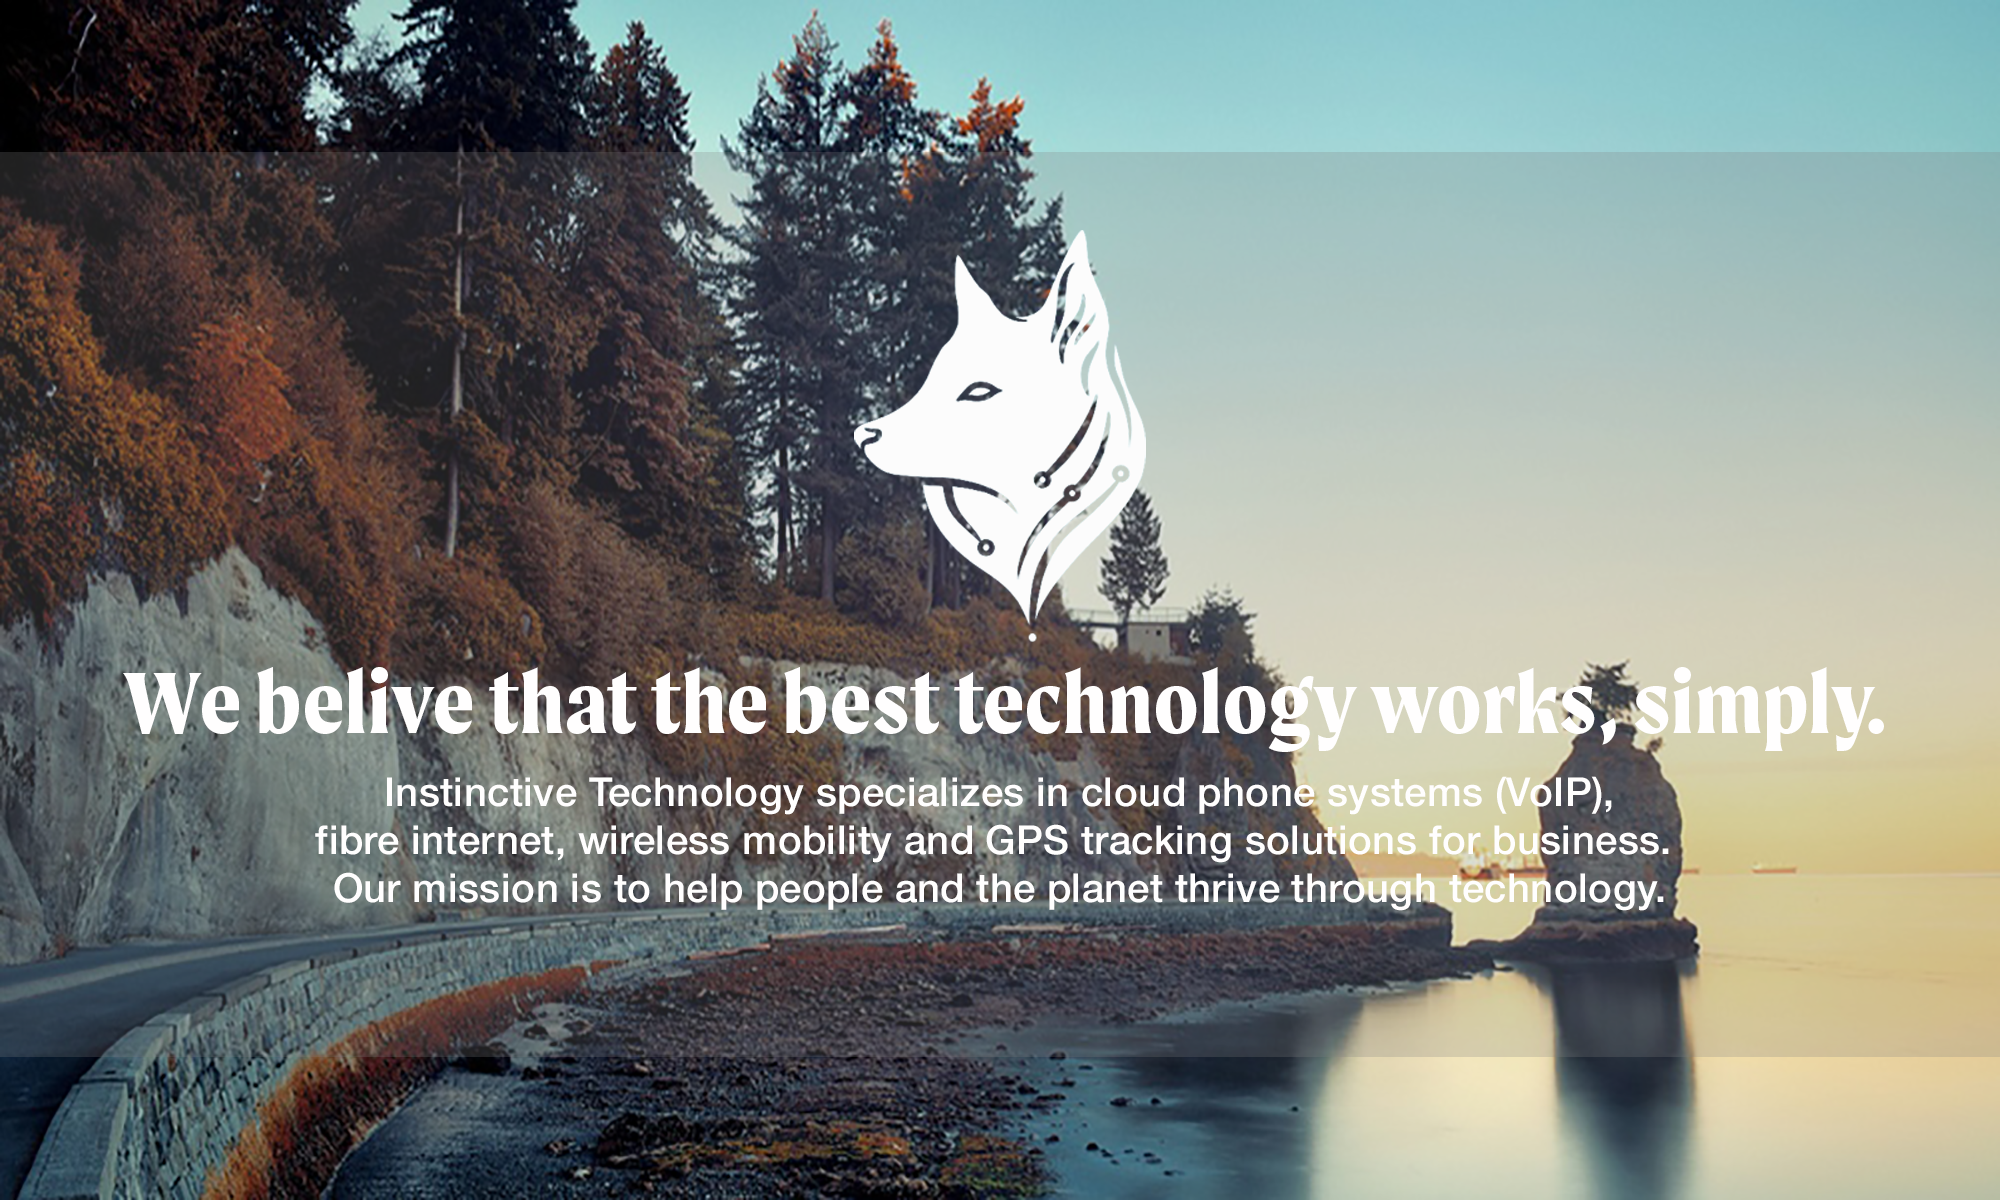
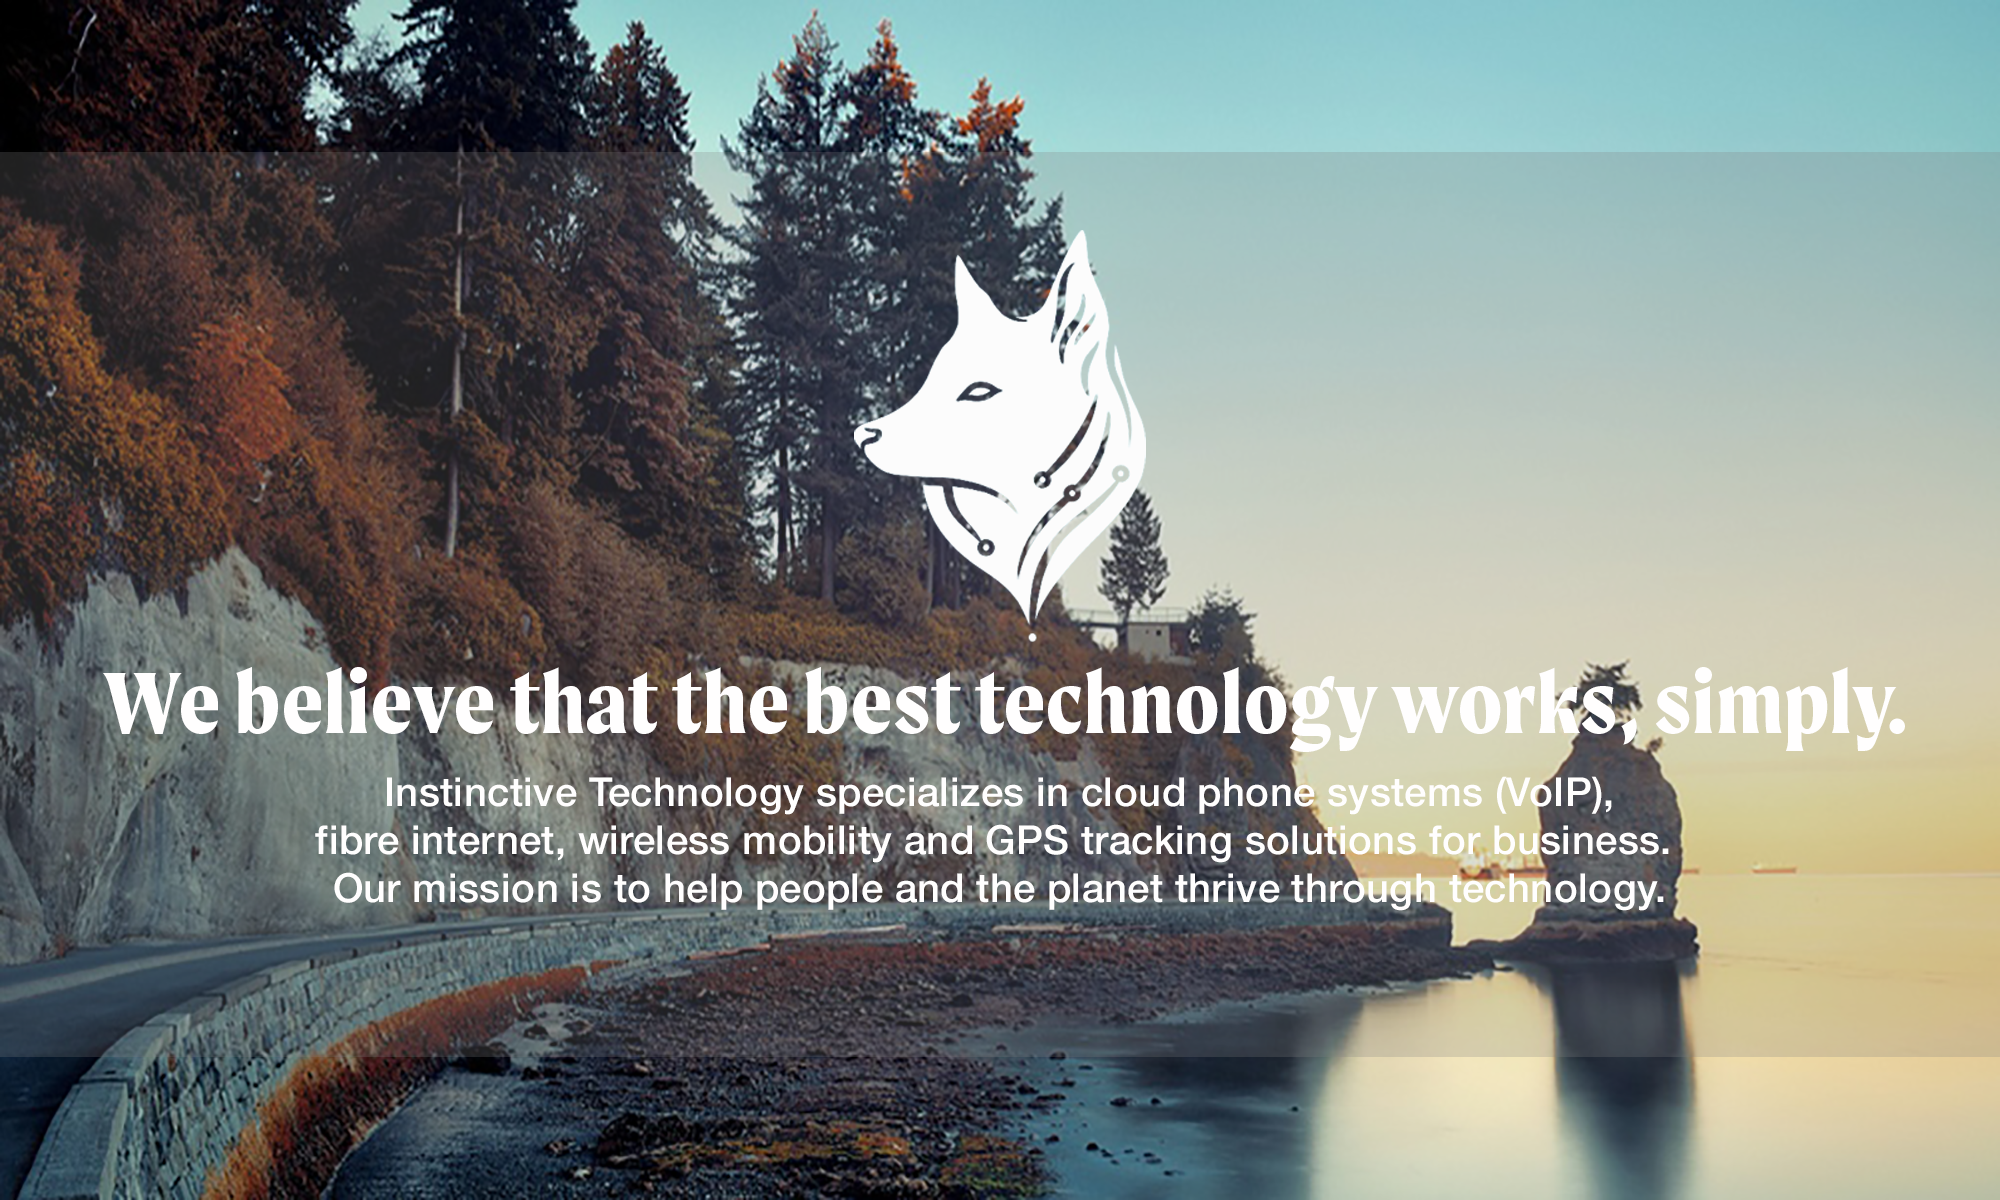
changed carousel front tile spelling, updated meta tags

Changed region(s): [[0.031, 0.555, 0.961, 0.6475]]

diff --git a/index.html b/index.html
@@ -3,6 +3,7 @@
 
 <head>
     <meta charset="utf-8">
+    <meta name="description" content="Connecting businesses with best-in-class technology solutions.">
     <meta name="viewport" content="width=device-width, initial-scale=1, shrink-to-fit=no">
     <meta http-equiv="X-UA-Compatible" content="ie=edge">
     <meta name="google-site-verification" content="d8fMbWopD04x7Xo9Vo0rEiuyVQFZz_v4Ir0zZVmpqk8" />

diff --git a/careers.html b/careers.html
@@ -6,6 +6,7 @@
       name="viewport"
       content="width=device-width, initial-scale=1, shrink-to-fit=no"
     />
+    <meta name="description" content="Connecting businesses with best-in-class technology solutions.">
     <meta http-equiv="X-UA-Compatible" content="ie=edge" />
 
     <!--favicon icon-->

diff --git a/contact-us.html b/contact-us.html
@@ -6,6 +6,7 @@
       name="viewport"
       content="width=device-width, initial-scale=1, shrink-to-fit=no"
     />
+    <meta name="description" content="Connecting businesses with best-in-class technology solutions.">
     <meta http-equiv="X-UA-Compatible" content="ie=edge" />
 
     <!--favicon icon-->
